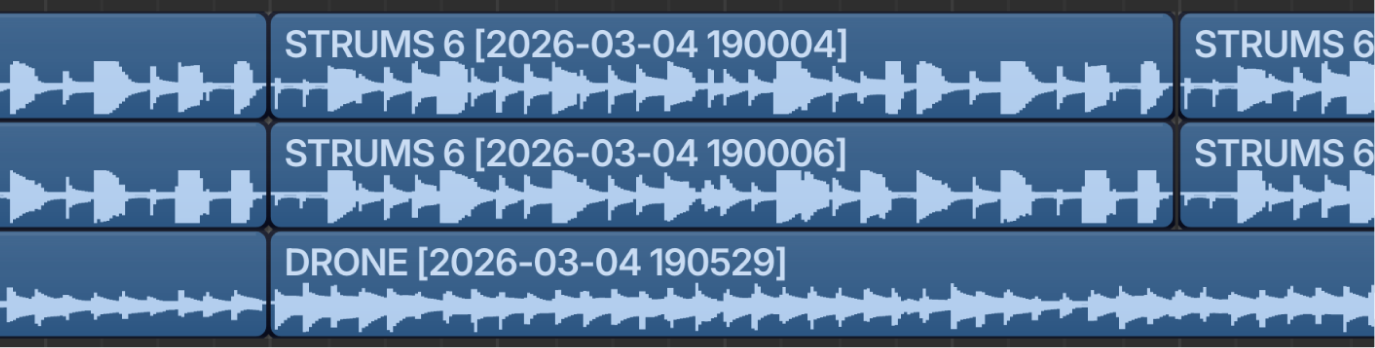
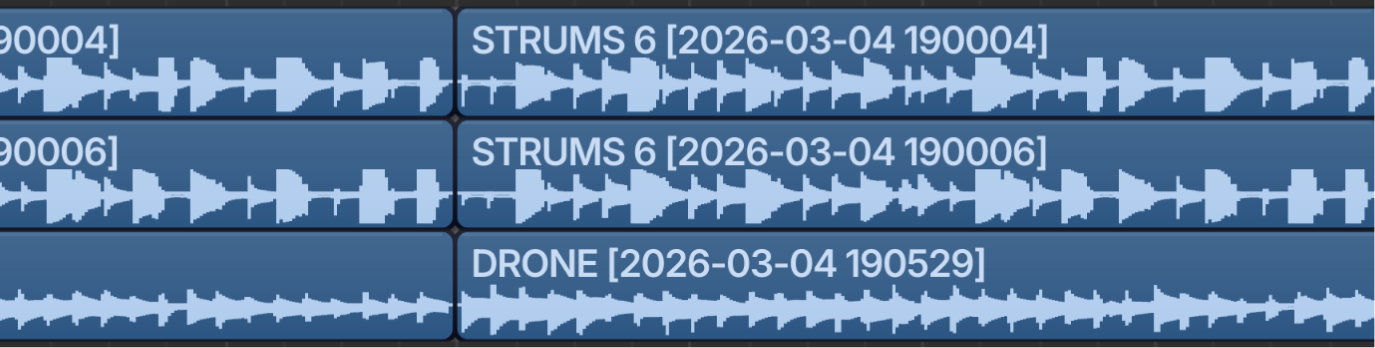
DAWception fix macOS codesign command; change img-clips

diff --git a/dawception/style.css b/dawception/style.css
@@ -466,6 +466,11 @@ pre {
   transition: 0.5s;
 }
 
+.macos-pre {
+  color: #0dff4d;
+  text-shadow: 0px 0px 16px #70ff96, 0px 0px 4px rgba(255, 255, 255, 0.4);
+}
+
 @media only screen and (max-width: 1200px) {
   #installation-instructions-wrapper > :first-child {
     width: 80%;

diff --git a/dawception/style.scss b/dawception/style.scss
@@ -604,6 +604,11 @@ pre {
 .height0 { max-height: 0; transition: 0.5s; }
 .heightalot { max-height: 1000px; transition: 0.5s; }
 
+.macos-pre {
+  color: #0dff4d;
+  text-shadow: 0px 0px 16px #70ff96, 0px 0px 4px rgba(255,255,255,0.4);
+}
+
 // 1200px, 900px, 570px, 400px
 
 @media only screen and (max-width: 1200px) {

diff --git a/dawception/index.js b/dawception/index.js
@@ -27,11 +27,11 @@ function openInstallationInstructions(platform) {
                     <div><pre>    /Library/Audio/Plug-Ins/VST3/</pre></div>
                     <ul>
                         <li>open the Terminal app and run these commands (adjust path if needed):</li>
-                    <pre>sudo xattr -dr com.apple.quarantine /Library/Audio/Plug-Ins/VST3/DAWception.vst3</pre>
+                    <pre class="macos-pre">sudo xattr -dr com.apple.quarantine /Library/Audio/Plug-Ins/VST3/DAWception.vst3</pre>
                         <br>
                         and
                         <br>
-                    <pre>codesign --deep --force --sign - /Library/Audio/Plug-Ins/VST3/DAWception.vst3</pre>
+                    <pre class="macos-pre">sudo codesign --deep --force --sign - /Library/Audio/Plug-Ins/VST3/DAWception.vst3</pre>
 
                     </ul>
         `;